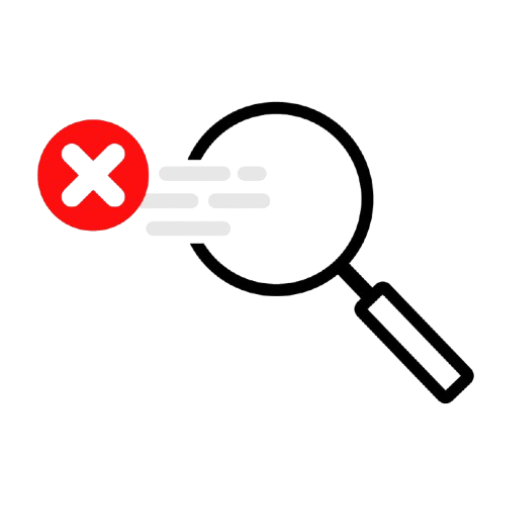
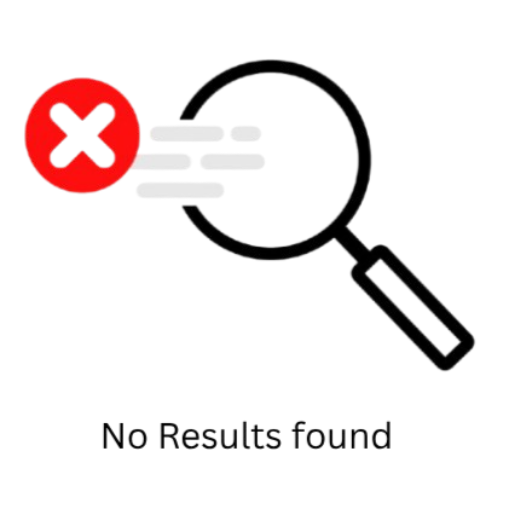
polished post announcements functionality, polished docurepo signs and functionality

diff --git a/docurepo.cs b/docurepo.cs
@@ -21,7 +21,8 @@ namespace RECOMANAGESYS
             flowBreadcrumb.Height = 25; 
             flowBreadcrumb.AutoScroll = false;
 
-            LoadDesktopItems(); 
+            LoadDesktopItems();
+            searchDocu.KeyDown += searchDocu_KeyDown;
         }
         private ToolStripMenuItem activeTypeMenuItem = null; //for Type
         private ToolStripMenuItem activeDateMenuItem = null;//for date added
@@ -226,7 +227,7 @@ namespace RECOMANAGESYS
             DisplayItems(itemsToShow);
         }
 
-        //FILTER BY MODIFIED DATE 
+        //FILTER BY MODIFIED DATE
         private void FilterByModifiedDate(string option)
         {
             List<DesktopItem> itemsToShow = currentFolder == null
@@ -270,8 +271,7 @@ namespace RECOMANAGESYS
         List<DesktopItem> desktopItems = new List<DesktopItem>();
         DesktopItem currentFolder = null; // null = root
 
-        // Context menu for right-click
-        ContextMenuStrip contextMenu = new ContextMenuStrip();
+        ContextMenuStrip contextMenu = new ContextMenuStrip(); // Context menu for right-click
 
         // DesktopItem class
         class DesktopItem
@@ -279,7 +279,7 @@ namespace RECOMANAGESYS
             public int ItemId { get; set; }
             public string Name { get; set; }
             public bool IsFolder { get; set; }
-            public string FilePath { get; set; } = null; // for real files
+            public string FilePath { get; set; } = null;
             public List<DesktopItem> Children { get; set; } = new List<DesktopItem>();
             public DesktopItem Parent { get; set; } = null;
             public int? ParentId { get; set; } = null;
@@ -414,18 +414,26 @@ namespace RECOMANAGESYS
             nextX = 10;
             nextY = 10;
 
-            if (items.Count == 0)
+            if (items.Count == 0) //empty/noresult signs
             {
-                // Show the No Results picture
-                PictureBox noResults = new PictureBox();
-                noResults.Image = Properties.Resources.noResult; 
-                noResults.SizeMode = PictureBoxSizeMode.Zoom; 
-                noResults.Size = new Size(200, 200); 
-                noResults.Anchor = AnchorStyles.None; 
-                panelDesktop.Controls.Add(noResults);
-                noResults.Left = (panelDesktop.Width - noResults.Width) / 2;
-                noResults.Top = (panelDesktop.Height - noResults.Height) / 2;
-                return; 
+                PictureBox placeholder = new PictureBox();
+                placeholder.SizeMode = PictureBoxSizeMode.Zoom;
+                placeholder.Size = new Size(200, 200);
+                placeholder.Anchor = AnchorStyles.None;
+
+                if (currentFolder == null)
+                {
+                    placeholder.Image = Properties.Resources.noResult;
+                }
+                else
+                {
+                    placeholder.Image = Properties.Resources.emptyFolder;
+                }
+
+                panelDesktop.Controls.Add(placeholder);
+                placeholder.Left = (panelDesktop.Width - placeholder.Width) / 2;
+                placeholder.Top = (panelDesktop.Height - placeholder.Height) / 2;
+                return;
             }
 
             // Add each item panel
@@ -583,7 +591,7 @@ namespace RECOMANAGESYS
                 if (e.ClickedItem.Text == "Delete")
                 {
                     DeleteItem(item);
-                    panelDesktop.Controls.Remove(panel);
+                    RemoveItemPanel(panel);
                 }
                 else if (e.ClickedItem.Text == "Rename")
                 {
@@ -690,29 +698,51 @@ namespace RECOMANAGESYS
                 conn.Open();
 
                 string query = @"
-            WITH RecursiveCTE AS (
-                SELECT ItemId
-                FROM DesktopItems
-                WHERE ItemId = @id
-                UNION ALL
-                SELECT d.ItemId
-                FROM DesktopItems d
-                INNER JOIN RecursiveCTE r ON d.ParentId = r.ItemId
-            )
-            DELETE FROM DesktopItems
-            WHERE ItemId IN (SELECT ItemId FROM RecursiveCTE);";
+                 WITH RecursiveCTE AS (SELECT ItemId FROM DesktopItems WHERE ItemId = @id
+                 UNION ALL
+                 SELECT d.ItemId FROM DesktopItems d INNER JOIN RecursiveCTE r ON d.ParentId = r.ItemId)
+                 DELETE FROM DesktopItems
+                 WHERE ItemId IN (SELECT ItemId FROM RecursiveCTE);";
 
                 SqlCommand cmd = new SqlCommand(query, conn);
                 cmd.Parameters.AddWithValue("@id", item.ItemId);
                 cmd.ExecuteNonQuery();
             }
 
-            // Update UI
+            // Update in-memory data
             if (item.Parent == null)
                 desktopItems.Remove(item);
             else
                 item.Parent.Children.Remove(item);
+
+            // Smooth UI reflow
+            Panel panelToRemove = panelDesktop.Controls
+                                   .OfType<Panel>()
+                                   .FirstOrDefault(p => p.Tag == item);
+            if (panelToRemove != null)
+                RemoveItemPanel(panelToRemove); // uses the smooth reflow function
         }
+        private void RemoveItemPanel(Panel itemPanel)
+        {
+            panelDesktop.Controls.Remove(itemPanel);
+
+            nextX = 10;
+            nextY = 10;
+
+            foreach (Control ctrl in panelDesktop.Controls)
+            {
+                ctrl.Left = nextX;
+                ctrl.Top = nextY;
+
+                nextX += itemWidth + padding;
+                if (nextX + itemWidth > panelDesktop.Width)
+                {
+                    nextX = 10;
+                    nextY += itemHeight + padding;
+                }
+            }
+        }
+
 
         private void searchbtn_Click(object sender, EventArgs e)
         {
@@ -782,6 +812,25 @@ namespace RECOMANAGESYS
                     : currentFolder.Children);
             }
         }
+        private void searchDocu_KeyDown(object sender, KeyEventArgs e)
+        {
+            if (e.KeyCode == Keys.Enter)
+            {
+                e.SuppressKeyPress = true; // prevents multiline
+
+                string query = searchDocu.Text.Trim();
+                if (string.IsNullOrEmpty(query))
+                {
+                    DisplayItems(currentFolder == null
+                        ? desktopItems.Where(d => d.Parent == null).ToList()
+                        : currentFolder.Children);
+                }
+                else
+                {
+                    searchbtn.PerformClick();
+                }
+            }
+        }
 
         private void btnSafeguard_Click(object sender, EventArgs e)
         {
@@ -803,7 +852,7 @@ namespace RECOMANAGESYS
 
             // Always show Root first
             LinkLabel rootLink = new LinkLabel();
-            rootLink.Text = "Root";
+            rootLink.Text = "Repository";
             rootLink.AutoSize = true;
             rootLink.LinkClicked += (s, e) =>
             {

diff --git a/docurepo.Designer.cs b/docurepo.Designer.cs
@@ -30,6 +30,8 @@
         {
             this.panel1 = new System.Windows.Forms.Panel();
             this.panel2 = new System.Windows.Forms.Panel();
+            this.lblResetFilter = new System.Windows.Forms.Label();
+            this.flowBreadcrumb = new System.Windows.Forms.FlowLayoutPanel();
             this.panel3 = new System.Windows.Forms.Panel();
             this.btnDate = new System.Windows.Forms.Button();
             this.btnModified = new System.Windows.Forms.Button();
@@ -40,8 +42,6 @@
             this.buttonAddFolder = new System.Windows.Forms.Button();
             this.buttonAddFile = new System.Windows.Forms.Button();
             this.btnSafeguard = new System.Windows.Forms.Button();
-            this.flowBreadcrumb = new System.Windows.Forms.FlowLayoutPanel();
-            this.lblResetFilter = new System.Windows.Forms.Label();
             this.panel2.SuspendLayout();
             this.panel3.SuspendLayout();
             this.SuspendLayout();
@@ -75,6 +75,25 @@
             this.panel2.Size = new System.Drawing.Size(1192, 751);
             this.panel2.TabIndex = 1;
             this.panel2.Paint += new System.Windows.Forms.PaintEventHandler(this.panel2_Paint);
+            // 
+            // lblResetFilter
+            // 
+            this.lblResetFilter.AutoSize = true;
+            this.lblResetFilter.Font = new System.Drawing.Font("Microsoft Sans Serif", 8F, System.Drawing.FontStyle.Underline, System.Drawing.GraphicsUnit.Point, ((byte)(0)));
+            this.lblResetFilter.ForeColor = System.Drawing.SystemColors.WindowFrame;
+            this.lblResetFilter.Location = new System.Drawing.Point(432, 142);
+            this.lblResetFilter.Name = "lblResetFilter";
+            this.lblResetFilter.Size = new System.Drawing.Size(91, 20);
+            this.lblResetFilter.TabIndex = 16;
+            this.lblResetFilter.Text = "Reset Filter";
+            // 
+            // flowBreadcrumb
+            // 
+            this.flowBreadcrumb.BackColor = System.Drawing.Color.Transparent;
+            this.flowBreadcrumb.Location = new System.Drawing.Point(36, 100);
+            this.flowBreadcrumb.Name = "flowBreadcrumb";
+            this.flowBreadcrumb.Size = new System.Drawing.Size(523, 28);
+            this.flowBreadcrumb.TabIndex = 15;
             // 
             // panel3
             // 
@@ -139,6 +158,7 @@
             // searchDocu
             // 
             this.searchDocu.BorderStyle = System.Windows.Forms.BorderStyle.FixedSingle;
+            this.searchDocu.Font = new System.Drawing.Font("Microsoft Sans Serif", 14F, System.Drawing.FontStyle.Regular, System.Drawing.GraphicsUnit.Point, ((byte)(0)));
             this.searchDocu.Location = new System.Drawing.Point(762, 34);
             this.searchDocu.Margin = new System.Windows.Forms.Padding(3, 4, 3, 4);
             this.searchDocu.Multiline = true;
@@ -196,25 +216,6 @@
             this.btnSafeguard.Text = "Backup Restore Manager";
             this.btnSafeguard.UseVisualStyleBackColor = false;
             this.btnSafeguard.Click += new System.EventHandler(this.btnSafeguard_Click);
-            // 
-            // flowBreadcrumb
-            // 
-            this.flowBreadcrumb.BackColor = System.Drawing.Color.Transparent;
-            this.flowBreadcrumb.Location = new System.Drawing.Point(36, 100);
-            this.flowBreadcrumb.Name = "flowBreadcrumb";
-            this.flowBreadcrumb.Size = new System.Drawing.Size(523, 28);
-            this.flowBreadcrumb.TabIndex = 15;
-            // 
-            // lblResetFilter
-            // 
-            this.lblResetFilter.AutoSize = true;
-            this.lblResetFilter.Font = new System.Drawing.Font("Microsoft Sans Serif", 8F, System.Drawing.FontStyle.Underline, System.Drawing.GraphicsUnit.Point, ((byte)(0)));
-            this.lblResetFilter.ForeColor = System.Drawing.SystemColors.WindowFrame;
-            this.lblResetFilter.Location = new System.Drawing.Point(432, 142);
-            this.lblResetFilter.Name = "lblResetFilter";
-            this.lblResetFilter.Size = new System.Drawing.Size(91, 20);
-            this.lblResetFilter.TabIndex = 16;
-            this.lblResetFilter.Text = "Reset Filter";
             // 
             // docurepo
             // 

diff --git a/monthdues.Designer.cs b/monthdues.Designer.cs
@@ -29,6 +29,7 @@
         private void InitializeComponent()
         {
             this.panel1 = new System.Windows.Forms.Panel();
+            this.cmbResidentFilter = new System.Windows.Forms.ComboBox();
             this.lvResidents = new System.Windows.Forms.ListView();
             this.lvMonths = new System.Windows.Forms.ListView();
             this.updatePayment = new System.Windows.Forms.Button();
@@ -37,7 +38,6 @@
             this.txtSearch = new System.Windows.Forms.TextBox();
             this.panel2 = new System.Windows.Forms.Panel();
             this.addPayment = new FontAwesome.Sharp.IconButton();
-            this.cmbResidentFilter = new System.Windows.Forms.ComboBox();
             this.panel1.SuspendLayout();
             this.panel2.SuspendLayout();
             this.SuspendLayout();
@@ -58,6 +58,17 @@
             this.panel1.Name = "panel1";
             this.panel1.Size = new System.Drawing.Size(1193, 727);
             this.panel1.TabIndex = 1;
+            // 
+            // cmbResidentFilter
+            // 
+            this.cmbResidentFilter.Font = new System.Drawing.Font("Microsoft Sans Serif", 9F, System.Drawing.FontStyle.Bold, System.Drawing.GraphicsUnit.Point, ((byte)(0)));
+            this.cmbResidentFilter.FormattingEnabled = true;
+            this.cmbResidentFilter.Location = new System.Drawing.Point(768, 65);
+            this.cmbResidentFilter.Name = "cmbResidentFilter";
+            this.cmbResidentFilter.Size = new System.Drawing.Size(283, 30);
+            this.cmbResidentFilter.TabIndex = 9;
+            this.cmbResidentFilter.Text = "Resident Filter";
+            this.cmbResidentFilter.SelectedIndexChanged += new System.EventHandler(this.cmbResidentFilter_SelectedIndexChanged);
             // 
             // lvResidents
             // 
@@ -130,6 +141,7 @@
             // txtSearch
             // 
             this.txtSearch.BorderStyle = System.Windows.Forms.BorderStyle.FixedSingle;
+            this.txtSearch.Font = new System.Drawing.Font("Microsoft Sans Serif", 14F, System.Drawing.FontStyle.Regular, System.Drawing.GraphicsUnit.Point, ((byte)(0)));
             this.txtSearch.Location = new System.Drawing.Point(768, 12);
             this.txtSearch.Margin = new System.Windows.Forms.Padding(3, 2, 3, 2);
             this.txtSearch.Multiline = true;
@@ -169,17 +181,6 @@
             this.addPayment.TextImageRelation = System.Windows.Forms.TextImageRelation.ImageBeforeText;
             this.addPayment.UseVisualStyleBackColor = false;
             this.addPayment.Click += new System.EventHandler(this.addvisitor_Click);
-            // 
-            // cmbResidentFilter
-            // 
-            this.cmbResidentFilter.Font = new System.Drawing.Font("Microsoft Sans Serif", 9F, System.Drawing.FontStyle.Bold, System.Drawing.GraphicsUnit.Point, ((byte)(0)));
-            this.cmbResidentFilter.FormattingEnabled = true;
-            this.cmbResidentFilter.Location = new System.Drawing.Point(768, 65);
-            this.cmbResidentFilter.Name = "cmbResidentFilter";
-            this.cmbResidentFilter.Size = new System.Drawing.Size(283, 30);
-            this.cmbResidentFilter.TabIndex = 9;
-            this.cmbResidentFilter.Text = "Resident Filter";
-            this.cmbResidentFilter.SelectedIndexChanged += new System.EventHandler(this.cmbResidentFilter_SelectedIndexChanged);
             // 
             // monthdues
             // 

diff --git a/Announcement.cs b/Announcement.cs
@@ -103,7 +103,7 @@ namespace RECOMANAGESYS
                     lblMessage.Text = reader["Message"].ToString();
                     lblMessage.Font = new Font("Arial", 9, FontStyle.Regular);
                     lblMessage.AutoSize = true;
-                    lblMessage.MaximumSize = new Size(panel.Width - 150, 0);
+                    lblMessage.MaximumSize = new Size(panel.Width - 180, 0);
                     lblMessage.BackColor = Color.Transparent;
                     container.Controls.Add(lblMessage);
 
@@ -118,15 +118,17 @@ namespace RECOMANAGESYS
                     btnEdit.Text = "Edit";
                     btnEdit.Tag = announcementId;
                     btnEdit.Width = 60;
-                    btnEdit.Location = new Point(panel.Width - 140, 10);
+                    btnEdit.Height = 28;
+                    btnEdit.Location = new Point(panel.Width - 160, 10);
                     btnEdit.Click += (s, e) => EditAnnouncement((int)btnEdit.Tag);
 
                     // Delete Button
                     Button btnDelete = new Button();
                     btnDelete.Text = "Delete";
                     btnDelete.Tag = announcementId;
-                    btnDelete.Width = 60;
-                    btnDelete.Location = new Point(panel.Width - 70, 10);
+                    btnDelete.Width = 80;
+                    btnDelete.Height = 28;
+                    btnDelete.Location = new Point(panel.Width - 90, 10);
                     btnDelete.Click += (s, e) => DeleteAnnouncement((int)btnDelete.Tag);
 
                     panel.Controls.Add(btnEdit);

diff --git a/Properties/Resources.Designer.cs b/Properties/Resources.Designer.cs
@@ -73,6 +73,16 @@ namespace RECOMANAGESYS.Properties {
         /// <summary>
         ///   Looks up a localized resource of type System.Drawing.Bitmap.
         /// </summary>
+        internal static System.Drawing.Bitmap emptyFolder {
+            get {
+                object obj = ResourceManager.GetObject("emptyFolder", resourceCulture);
+                return ((System.Drawing.Bitmap)(obj));
+            }
+        }
+        
+        /// <summary>
+        ///   Looks up a localized resource of type System.Drawing.Bitmap.
+        /// </summary>
         internal static System.Drawing.Bitmap excelIcon {
             get {
                 object obj = ResourceManager.GetObject("excelIcon", resourceCulture);

diff --git a/PostAnnouncement.Designer.cs b/PostAnnouncement.Designer.cs
@@ -85,7 +85,7 @@
             // txtTitle
             // 
             this.txtTitle.Font = new System.Drawing.Font("Microsoft Sans Serif", 16F, System.Drawing.FontStyle.Regular, System.Drawing.GraphicsUnit.Point, ((byte)(0)));
-            this.txtTitle.Location = new System.Drawing.Point(193, 141);
+            this.txtTitle.Location = new System.Drawing.Point(203, 141);
             this.txtTitle.Multiline = true;
             this.txtTitle.Name = "txtTitle";
             this.txtTitle.Size = new System.Drawing.Size(681, 39);
